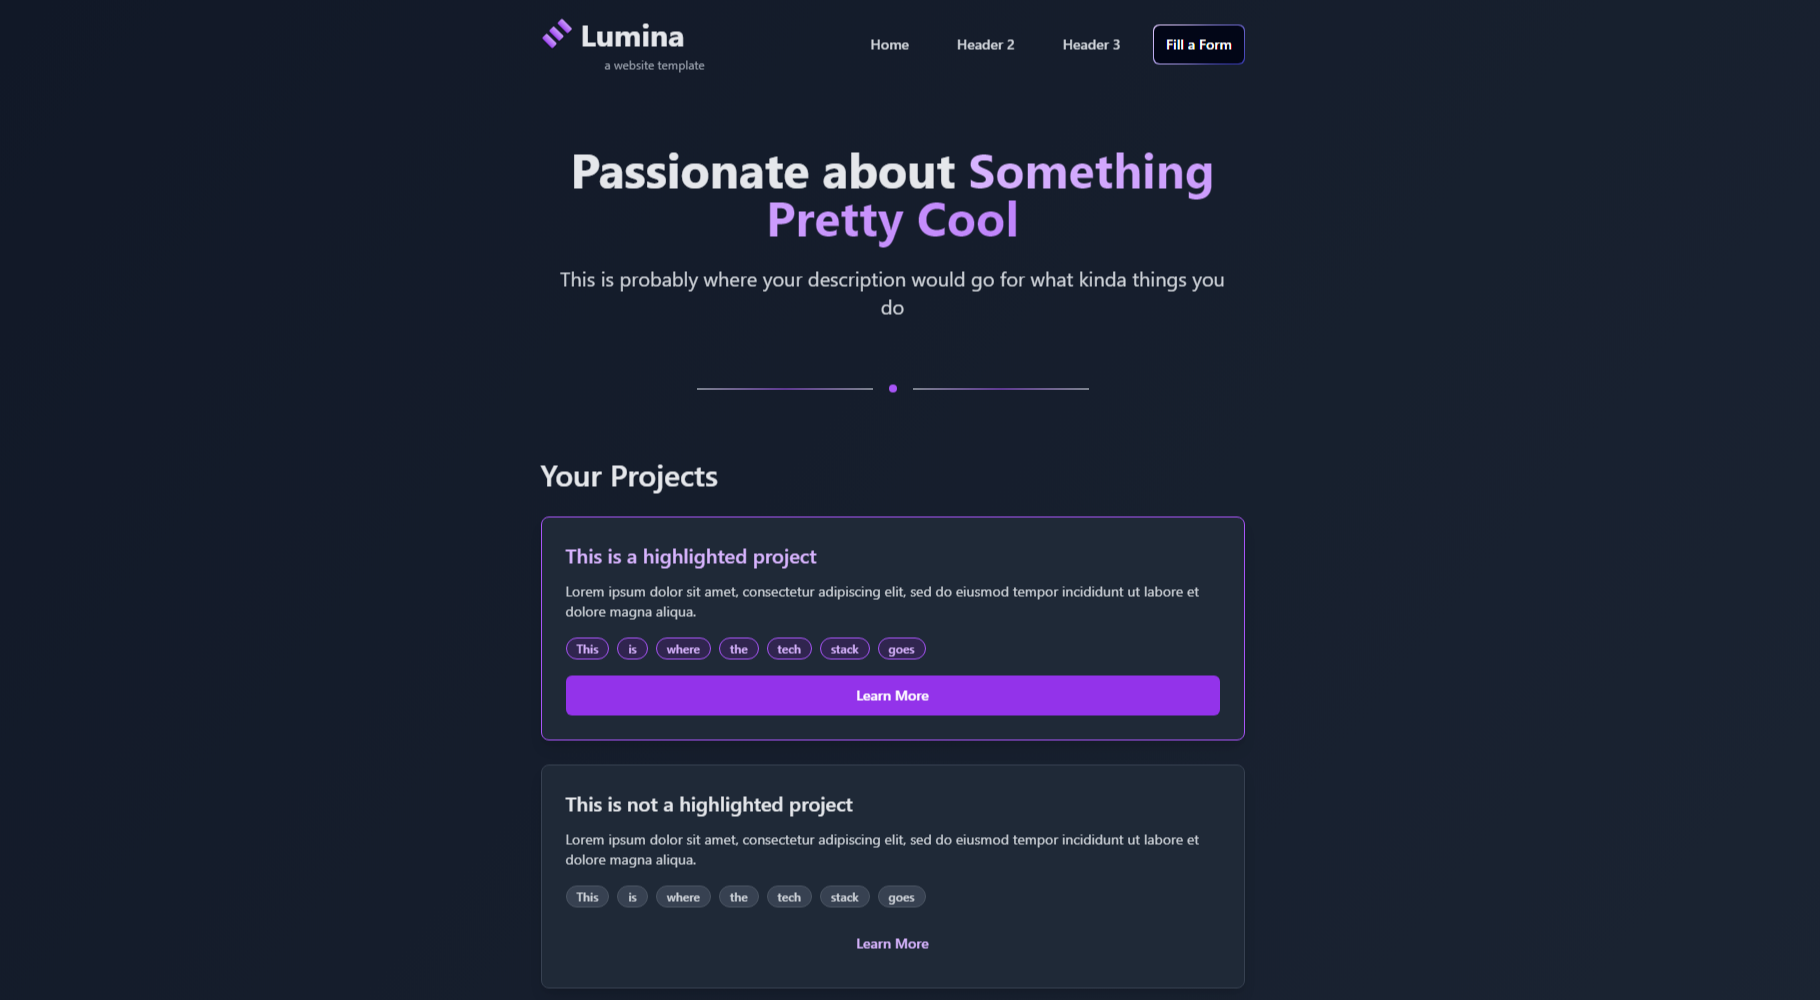
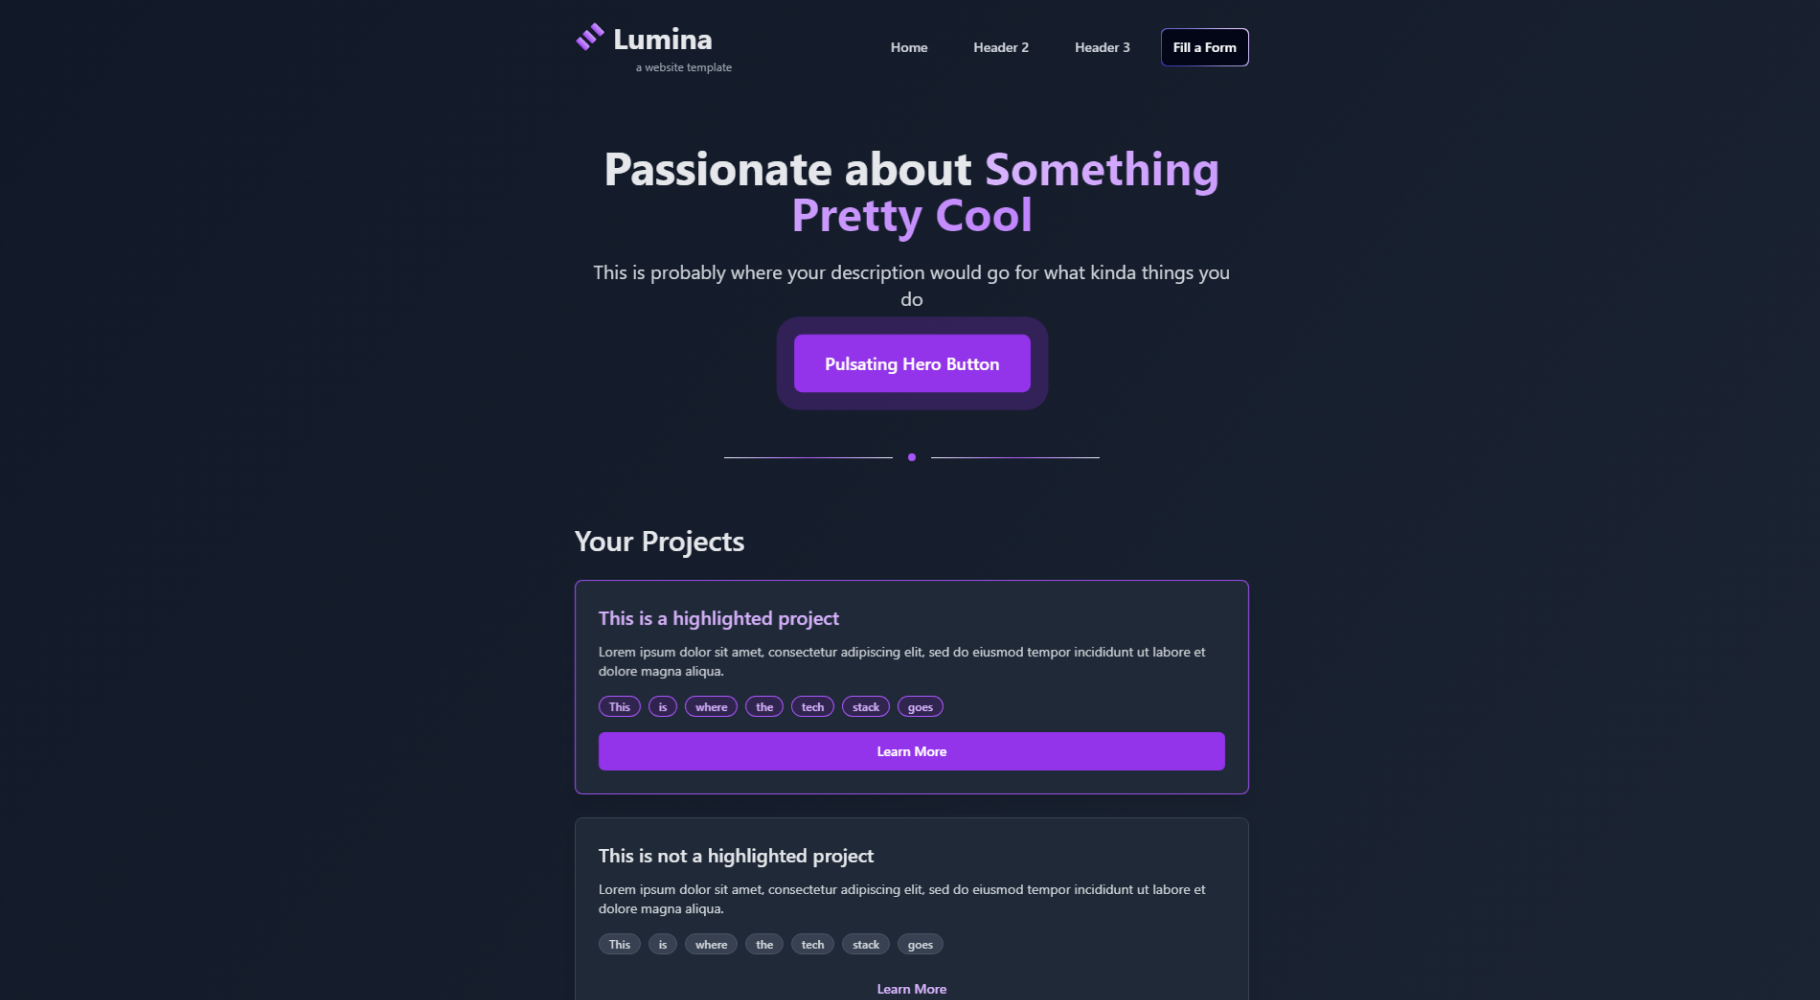
added pulsating hero button, website name and description changed

diff --git a/tailwind.config.js b/tailwind.config.js
@@ -17,6 +17,20 @@ module.exports = {
       },
     },
     extend: {
+      animation: {
+        pulsate: "pulsate var(--duration) infinite",
+        "pulse-ring": "pulse-ring var(--duration) infinite",
+      },
+      keyframes: {
+        pulsate: {
+          '0%, 100%': { transform: 'scale(1)' },
+          '50%': { transform: 'scale(1.1)' },
+        },
+        "pulse-ring": {
+          '0%': { transform: 'scale(0.9)', opacity: 1 },
+          '100%': { transform: 'scale(1.5)', opacity: 0 },
+        },
+      },
       colors: {
         border: "hsl(var(--border))",
         input: "hsl(var(--input))",
@@ -66,10 +80,16 @@ module.exports = {
           from: { height: "var(--radix-accordion-content-height)" },
           to: { height: "0" },
         },
+        'pulse-ring': {
+          '0%': { transform: 'scale(0.95)', opacity: '1' },
+          '100%': { transform: 'scale(1.5)', opacity: '0' },
+        },
       },
       animation: {
         "accordion-down": "accordion-down 0.2s ease-out",
         "accordion-up": "accordion-up 0.2s ease-out",
+        'pulse-ring': 'pulse-ring 2s cubic-bezier(0.4, 0, 0.6, 1) infinite',
+        'pulsate': 'pulsate var(--duration, 2s) ease-in-out infinite',
       },
     },
   },

diff --git a/src/app/page.js b/src/app/page.js
@@ -143,6 +143,28 @@ export default function Home() {
             <p className="text-lg sm:text-xl max-w-2xl mx-auto text-gray-300">
               This is probably where your description would go for what kinda things you do
             </p>
+            <div className="flex justify-center space-x-4 mt-6">
+              <motion.button
+                className="bg-purple-600 hover:bg-purple-700 text-white px-8 py-4 rounded-lg font-semibold transition-colors duration-300 ease-in-out text-lg"
+                whileHover={{ scale: 1.05 }}
+                whileTap={{ scale: 0.95 }}
+                animate={{
+                  scale: [1, 1.05, 1],
+                  boxShadow: [
+                    "0 0 0 0 rgba(147, 51, 234, 0)",
+                    "0 0 0 15px rgba(147, 51, 234, 0.3)",
+                    "0 0 0 30px rgba(147, 51, 234, 0)"
+                  ],
+                }}
+                transition={{
+                  duration: 2,
+                  repeat: Infinity,
+                  repeatType: "loop"
+                }}
+              >
+                Pulsating Hero Button
+              </motion.button>
+            </div>
           </section>
 
           <SectionSeparator />

diff --git a/src/app/layout.js b/src/app/layout.js
@@ -13,8 +13,8 @@ const geistMono = localFont({
 });
 
 export const metadata = {
-  title: "t a g o W o r k s - Website Template",
-  description: "A template of the tagoWorks website",
+  title: "Lumina - A Website Template",
+  description: "A template that was used for the tagoWorks website. Created by tago.",
 };
 
 export default function RootLayout({ children }) {
